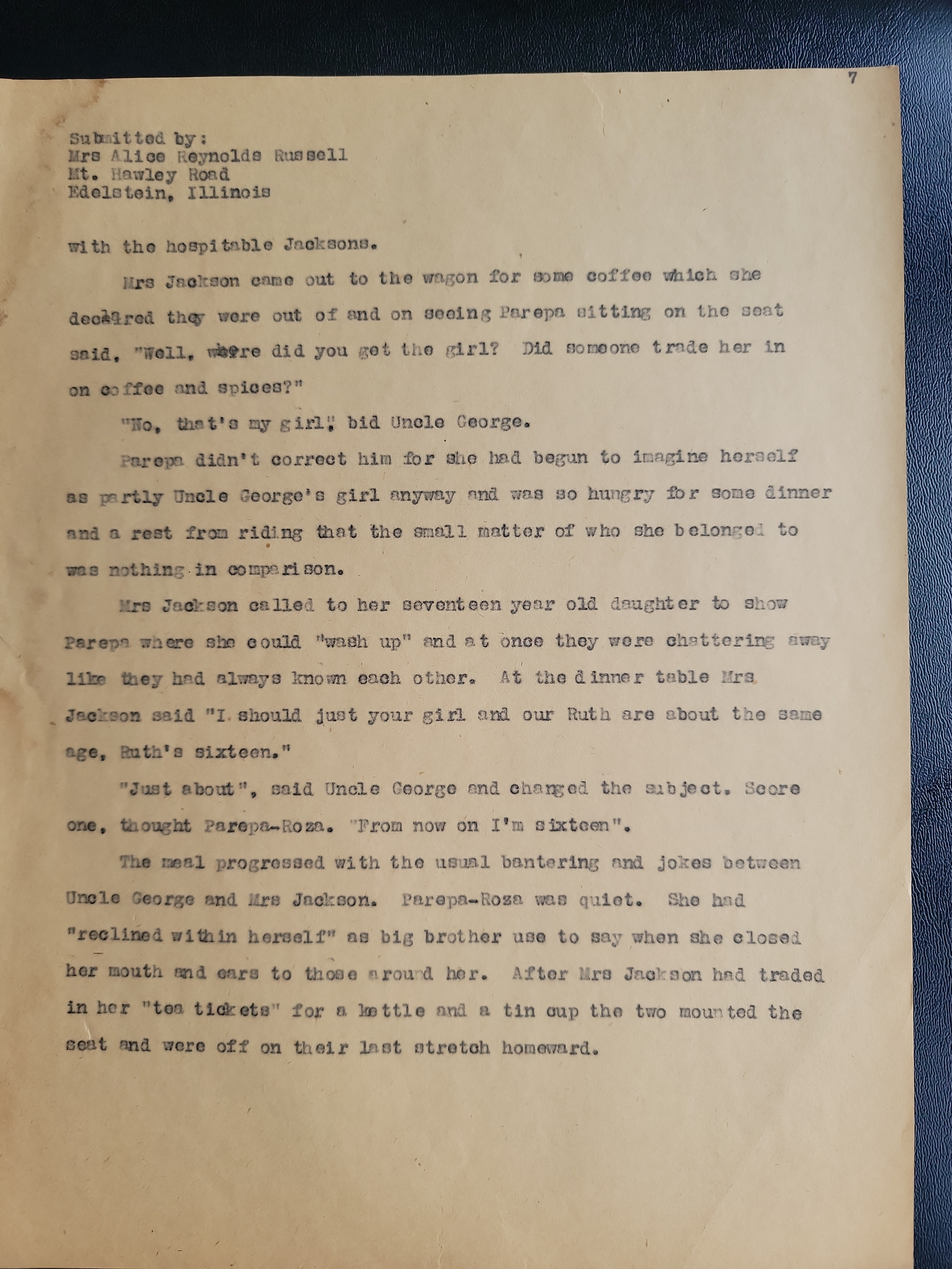
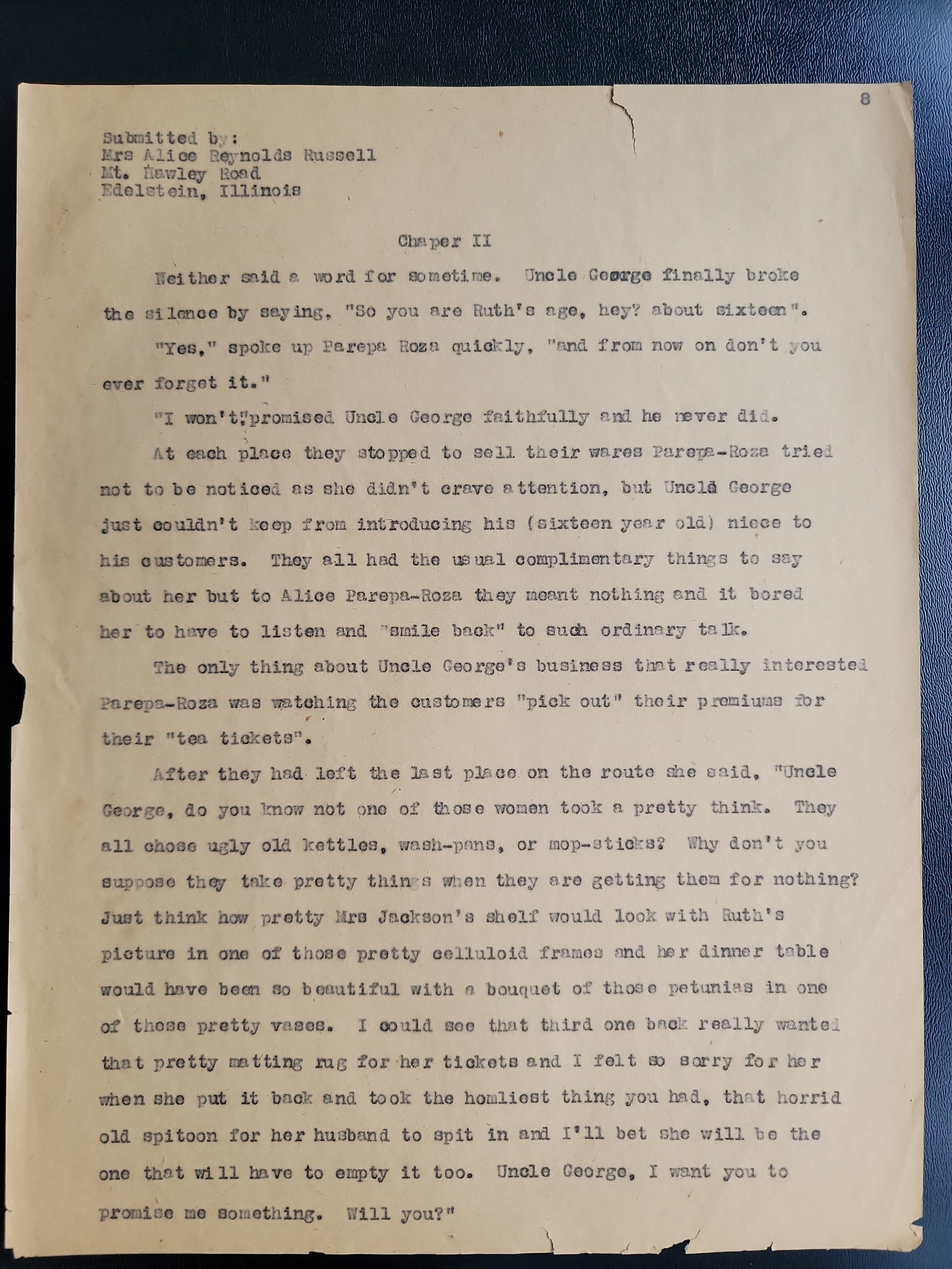
Fix page 7/8 photo order to match manuscript's own numbering
Physical sheets 7 and 8 were captured out of order during photographing:
the Chapter II opening (typed page 8) landed as physical page 7, and the
Chapter I close (typed page 7) landed as physical page 8. Swap both the
image files and their transcripts so physical position now matches the
author's typed page numbers, with no other content changes.

Claude-Session: https://claude.ai/code/session_01MLbLpPqcShu7BR6bmmabLA

Changed region(s): [[0.0, 0.0, 1.0, 1.0]]

diff --git a/transcript/page-008.md b/transcript/page-008.md
@@ -1,59 +1,66 @@
 ---
 page: 8
-typed_page: 7
+typed_page: 8
 book: 1
 image: pages/originals/page-008.jpg
 has_pencil: false
 has_table: false
 illegible_spots: 0
-needs_review: true
+needs_review: false
 ---
 
-                                                                    7
-
+                                                                    8
 Submitted by:
 Mrs Alice Reynolds Russell
 Mt. Hawley Road
 Edelstein, Illinois
 
-with the hospitable Jacksons.
-     Mrs Jackson came out to the wagon for some coffee which she
-declared⟦strikeover: "la" overtyped on other letters⟧ they were out of and on seeing Parepa sitting on the seat
-said, "Well, where did you get the girl?  Did someone trade her in
-on coffee and spices?"
-     "No, that's my girl", bid Uncle George.
-     Parepa didn't correct him for she had begun to imagine herself
-as partly Uncle George's girl anyway and was so hungry for some dinner
-and a rest from riding that the small matter of who she belonged to
-was nothing in comparison.
-     Mrs Jackson called to her seventeen year old daughter to show
-Parepa where she could "wash up" and at once they were chattering away
-like they had always known each other.  At the dinner table Mrs
-Jackson said "I should just your girl and our Ruth are about the same
-age, Ruth's sixteen."
-     "Just about", said Uncle George and changed the subject. Score
-one, thought Parepa-Roza.  "From now on I'm sixteen".
-     The meal progressed with the usual bantering and jokes between
-Uncle George and Mrs Jackson.  Parepa-Roza was quiet.  She had
-"reclined within herself" as big brother use to say when she closed
-her mouth and ears to those around her.  After Mrs Jackson had traded
-in her "tea tickets" for a kettle and a tin cup the two mounted the
-seat and were off on their last stretch homeward.
+                              Chaper II
+
+     Neither said a word for sometime.  Uncle George⟦strikeover: letters "or" overtyped on other letters mid-word⟧ finally broke
+the silence by saying, "So you are Ruth's age, hey? about sixteen".
+     "Yes," spoke up Parepa Roza quickly, "and from now on don't you
+ever forget it."
+     "I won't,"promised Uncle George faithfully and he never did.
+     At each place they stopped to sell their wares Parepa-Roza tried
+not to be noticed as she didn't crave attention, but Uncle George
+just couldn't keep from introducing his (sixteen year old) niece to
+his customers.  They all had the usual complimentary things to say
+about her but to Alice Parepa-Roza they meant nothing and it bored
+her to have to listen and "smile back" to such ordinary talk.
+     The only thing about Uncle George's business that really interested
+Parepa-Roza was watching the customers "pick out" their premiums for
+their "tea tickets".
+     After they had left the last place on the route she said, "Uncle
+George, do you know not one of those women took a pretty think.  They
+all chose ugly old kettles, wash-pans, or mop-sticks?  Why don't you
+suppose they take pretty things when they are getting them for nothing?
+Just think how pretty Mrs Jackson's shelf would look with Ruth's
+picture in one of those pretty celluloid frames and her dinner table
+would have been so beautiful with a bouquet of those petunias in one
+of these pretty vases.  I could see that third one back really wanted
+that pretty matting rug for her tickets and I felt so sorry for her
+when she put it back and took the homliest thing you had, that horrid
+old spitoon for her husband to spit in and I'll bet she will be the
+one that will have to empty it too.  Uncle George, I want you to
+promise me something.  Will you?"
 
 ## Transcriber notes
 
-- ANOMALY: this physical page (8th sheet) carries typed page number "7".
-  Physical sheets 7 and 8 are transposed in the file: typed page 7 (this
-  sheet) continues directly from page 6 ("...got his dinner / with the
-  hospitable Jacksons.") and is the end of Chapter I; typed page 8
-  (physical sheet 7) begins Chapter II. No text is actually missing.
-  Flagged needs_review so the sheet order can be corrected.
-- Page ends about two-thirds down with white space below — chapter end.
-- "declared" has a typewriter strikeover mid-word ("la" overtyped).
-- In '"No, that's my girl", bid' the comma and closing quote overlap;
-  "bid" (apparently for "said") is as typed.
-- '"I should just your girl and our Ruth are about the same age' is as
-  typed — a word (likely "judge") appears to have been omitted by the
-  typist; also no comma after "said".
-- "big brother use to say" is as typed.
-- No pencil marks found on this page.
+- This page was originally photographed out of order (swapped with what
+  is now page 7) — the photo sequence had this Chapter II opening as
+  physical position 7 and the end of Chapter I as physical position 8.
+  The two image files and transcripts were reordered on 2026-07-05 to
+  match the manuscript's own typed page numbers, so physical page and
+  typed page now agree. This sheet opens Chapter II and follows directly
+  from page 7 ("...promise me something.  Will you?").
+- "Chaper II" (missing "t", matching "Chaper I" on page 1) is as typed.
+- In the first line, "George" has typewriter strikeover damage mid-word
+  (letters overtyped, appearing as "Geoærge"); intended word is clearly
+  George.
+- In '"I won't,"promised' the comma and closing quote overlap and there is
+  no space before "promised" — as typed (confirmed under magnification).
+- "sometime" (one word), "pretty think" (for "thing"), "homliest", and
+  "spitoon" are as typed.
+- No pencil marks found on this page. Small tear at top edge near the
+  page number; no text lost.

diff --git a/transcript/page-007.md b/transcript/page-007.md
@@ -1,64 +1,61 @@
 ---
 page: 7
-typed_page: 8
+typed_page: 7
 book: 1
 image: pages/originals/page-007.jpg
 has_pencil: false
 has_table: false
 illegible_spots: 0
-needs_review: true
+needs_review: false
 ---
 
-                                                                    8
+                                                                    7
+
 Submitted by:
 Mrs Alice Reynolds Russell
 Mt. Hawley Road
 Edelstein, Illinois
 
-                              Chaper II
-
-     Neither said a word for sometime.  Uncle George⟦strikeover: letters "or" overtyped on other letters mid-word⟧ finally broke
-the silence by saying, "So you are Ruth's age, hey? about sixteen".
-     "Yes," spoke up Parepa Roza quickly, "and from now on don't you
-ever forget it."
-     "I won't,"promised Uncle George faithfully and he never did.
-     At each place they stopped to sell their wares Parepa-Roza tried
-not to be noticed as she didn't crave attention, but Uncle George
-just couldn't keep from introducing his (sixteen year old) niece to
-his customers.  They all had the usual complimentary things to say
-about her but to Alice Parepa-Roza they meant nothing and it bored
-her to have to listen and "smile back" to such ordinary talk.
-     The only thing about Uncle George's business that really interested
-Parepa-Roza was watching the customers "pick out" their premiums for
-their "tea tickets".
-     After they had left the last place on the route she said, "Uncle
-George, do you know not one of those women took a pretty think.  They
-all chose ugly old kettles, wash-pans, or mop-sticks?  Why don't you
-suppose they take pretty things when they are getting them for nothing?
-Just think how pretty Mrs Jackson's shelf would look with Ruth's
-picture in one of those pretty celluloid frames and her dinner table
-would have been so beautiful with a bouquet of those petunias in one
-of these pretty vases.  I could see that third one back really wanted
-that pretty matting rug for her tickets and I felt so sorry for her
-when she put it back and took the homliest thing you had, that horrid
-old spitoon for her husband to spit in and I'll bet she will be the
-one that will have to empty it too.  Uncle George, I want you to
-promise me something.  Will you?"
+with the hospitable Jacksons.
+     Mrs Jackson came out to the wagon for some coffee which she
+declared⟦strikeover: "la" overtyped on other letters⟧ they were out of and on seeing Parepa sitting on the seat
+said, "Well, where did you get the girl?  Did someone trade her in
+on coffee and spices?"
+     "No, that's my girl", bid Uncle George.
+     Parepa didn't correct him for she had begun to imagine herself
+as partly Uncle George's girl anyway and was so hungry for some dinner
+and a rest from riding that the small matter of who she belonged to
+was nothing in comparison.
+     Mrs Jackson called to her seventeen year old daughter to show
+Parepa where she could "wash up" and at once they were chattering away
+like they had always known each other.  At the dinner table Mrs
+Jackson said "I should just your girl and our Ruth are about the same
+age, Ruth's sixteen."
+     "Just about", said Uncle George and changed the subject. Score
+one, thought Parepa-Roza.  "From now on I'm sixteen".
+     The meal progressed with the usual bantering and jokes between
+Uncle George and Mrs Jackson.  Parepa-Roza was quiet.  She had
+"reclined within herself" as big brother use to say when she closed
+her mouth and ears to those around her.  After Mrs Jackson had traded
+in her "tea tickets" for a kettle and a tin cup the two mounted the
+seat and were off on their last stretch homeward.
 
 ## Transcriber notes
 
-- ANOMALY: this physical page (7th sheet) carries typed page number "8" —
-  the typed page numbering jumps from 6 to 8. Page 6 ends mid-sentence
-  ("...fed his horses and got his dinner") and this page opens Chapter II,
-  so a typed page 7 (the end of Chapter I) appears to be missing from the
-  file. Flagged needs_review.
-- "Chaper II" (missing "t", matching "Chaper I" on page 1) is as typed.
-- In the first line, "George" has typewriter strikeover damage mid-word
-  (letters overtyped, appearing as "Geoærge"); intended word is clearly
-  George.
-- In '"I won't,"promised' the comma and closing quote overlap and there is
-  no space before "promised" — as typed (confirmed under magnification).
-- "sometime" (one word), "pretty think" (for "thing"), "homliest", and
-  "spitoon" are as typed.
-- No pencil marks found on this page. Small tear at top edge near the
-  page number; no text lost.
+- This page was originally photographed out of order (swapped with what
+  is now page 8) — the photo sequence had this sheet as physical position
+  8 and the Chapter II opening as physical position 7. The two image
+  files and transcripts were reordered on 2026-07-05 to match the
+  manuscript's own typed page numbers (7 then 8), so physical page and
+  typed page now agree. This sheet continues directly from page 6
+  ("...got his dinner / with the hospitable Jacksons.") and is the end of
+  Chapter I.
+- Page ends about two-thirds down with white space below — chapter end.
+- "declared" has a typewriter strikeover mid-word ("la" overtyped).
+- In '"No, that's my girl", bid' the comma and closing quote overlap;
+  "bid" (apparently for "said") is as typed.
+- '"I should just your girl and our Ruth are about the same age' is as
+  typed — a word (likely "judge") appears to have been omitted by the
+  typist; also no comma after "said".
+- "big brother use to say" is as typed.
+- No pencil marks found on this page.

diff --git a/transcript/page-009.md b/transcript/page-009.md
@@ -47,9 +47,8 @@ a long strand of the cheapest glass beads one could imagine.
 ## Transcriber notes
 
 - Typed page number "9" at top right corner.
-- Continues Chapter II from typed page 8 (physical sheet 7): "...promise me
-  something.  Will you?" / "Now what are you up to?" — confirms the 7/8
-  sheet transposition noted on those pages.
+- Continues Chapter II from page 8: "...promise me something.  Will you?"
+  / "Now what are you up to?"
 - "happines" (for "happiness"), "sometime" (one word), "boke" (for
   "broke"), and "any way" (two words) are as typed.
 - Before "you'll let me" a single typed character is heavily blacked out
